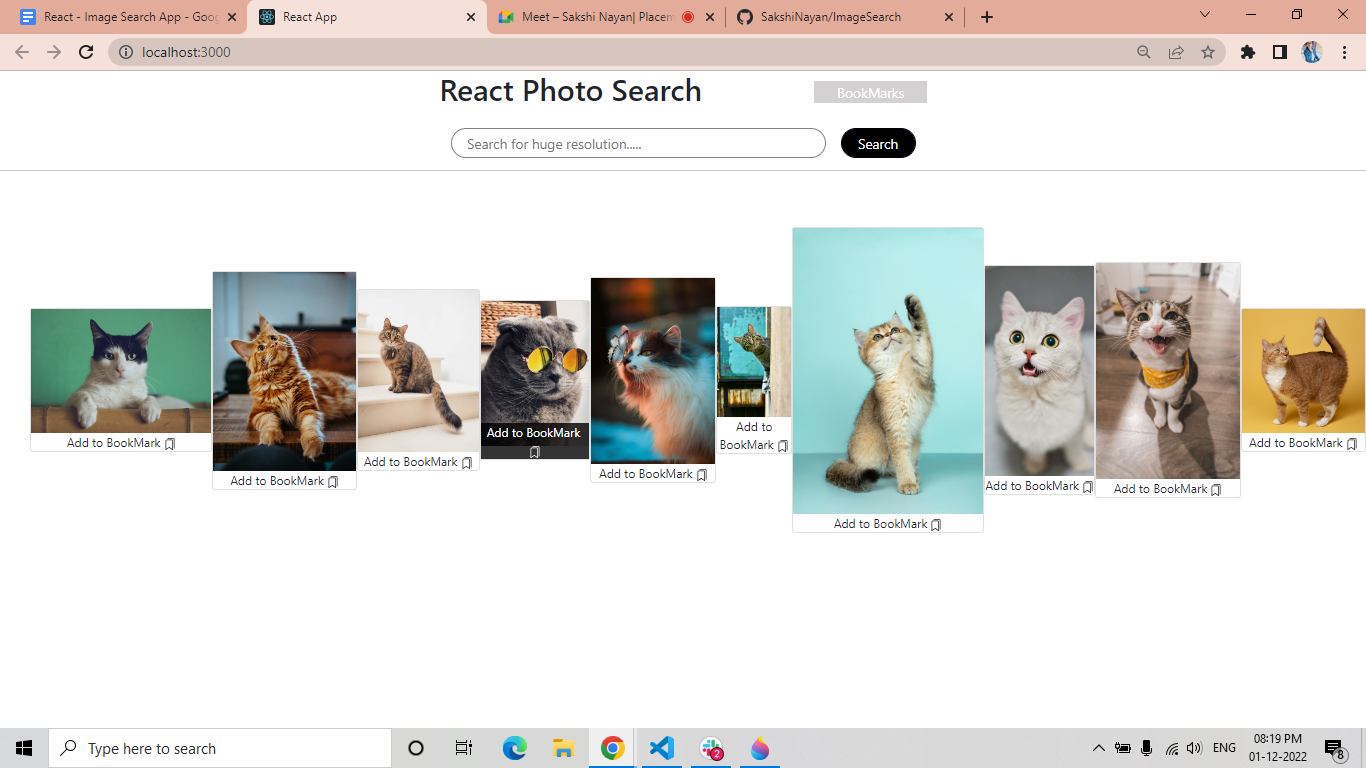
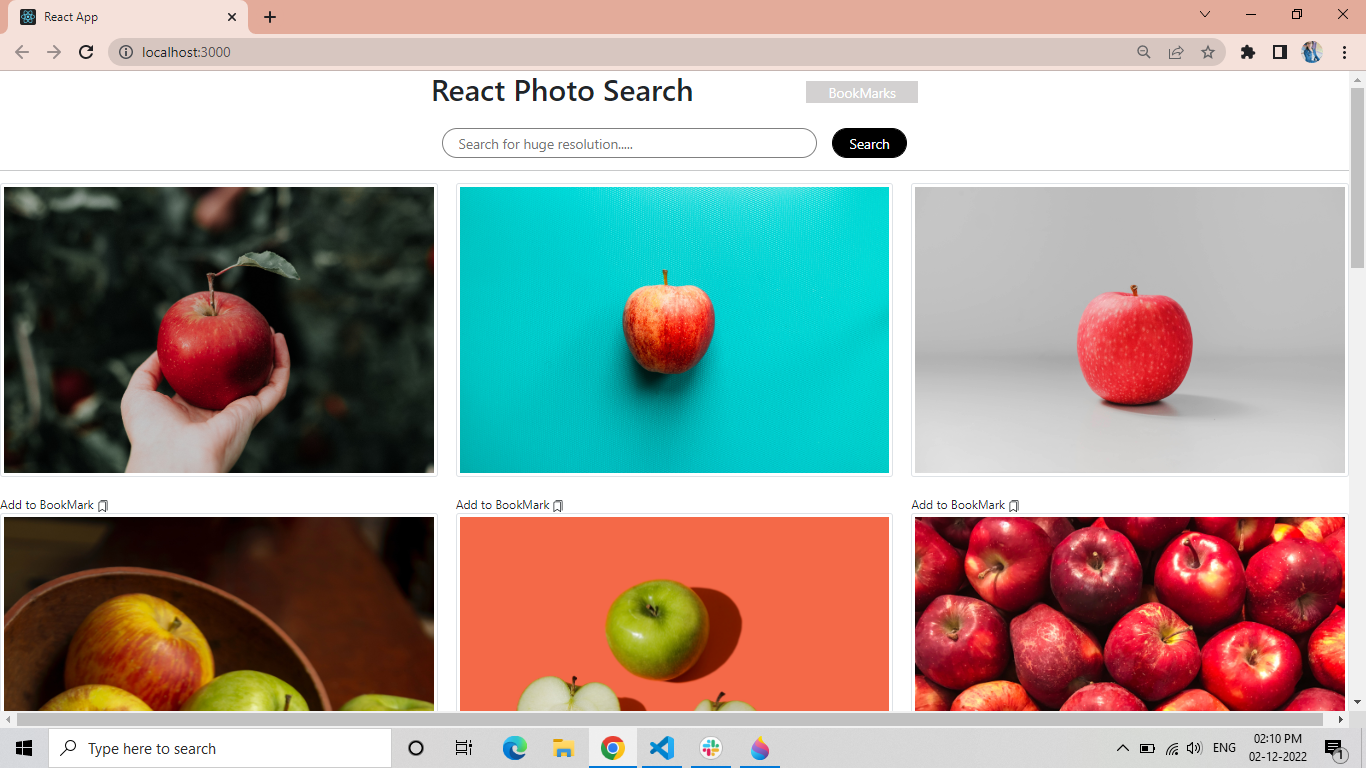
done

diff --git a/src/Component/ImageSearch.js b/src/Component/ImageSearch.js
@@ -52,14 +52,14 @@ const Search =()=>{
               onClick={Submit}>Search</button>
             {/* </form> */}
             <hr />
-            <div className="card_list">
+            <div className="row text-center text-lg-start">
                 {
                     pics.map((pic)=>{
                         return(
                             
-                            <div className="card" key={pic.id}>
+                            <div className="col-lg-4 col-md-4 col-6" key={pic.id}>
                                 <img
-                                    className="card--image"
+                                    className="img-fluid img-thumbnail d-block mb-4 "
                                     alt={pic.alt_description}
                                     src={pic.urls.full}
                                     // width="20%"
